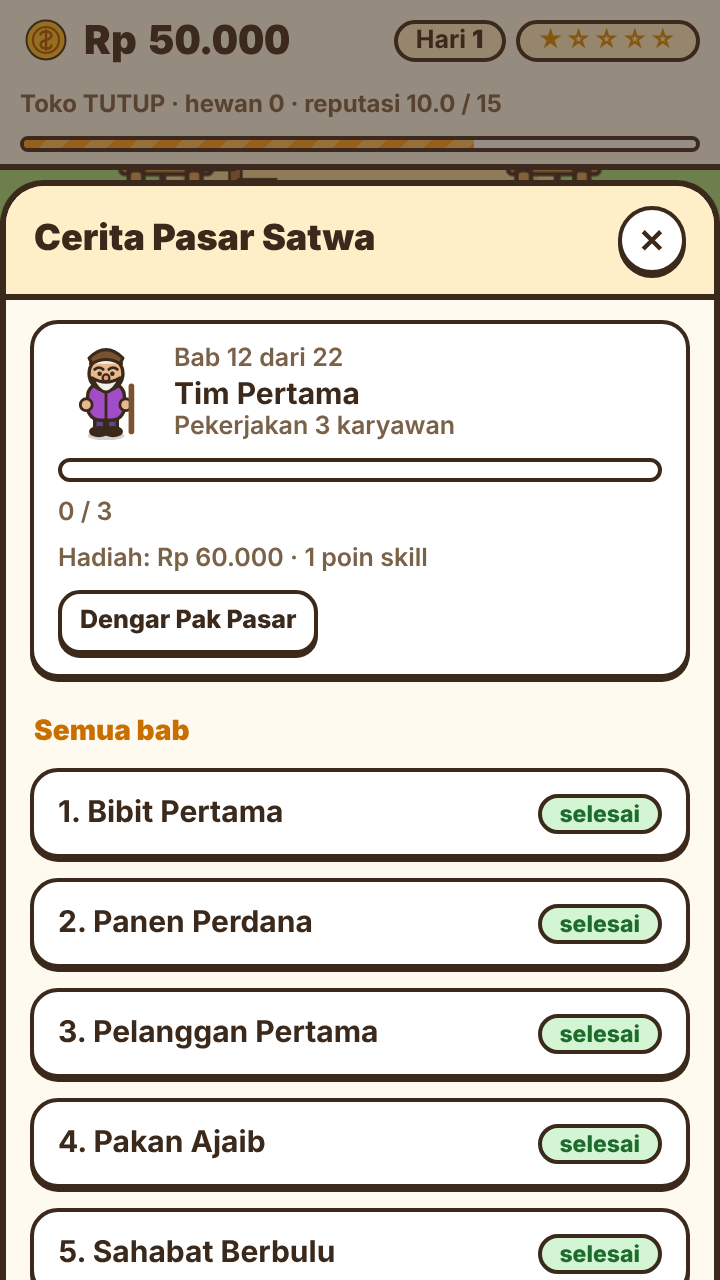
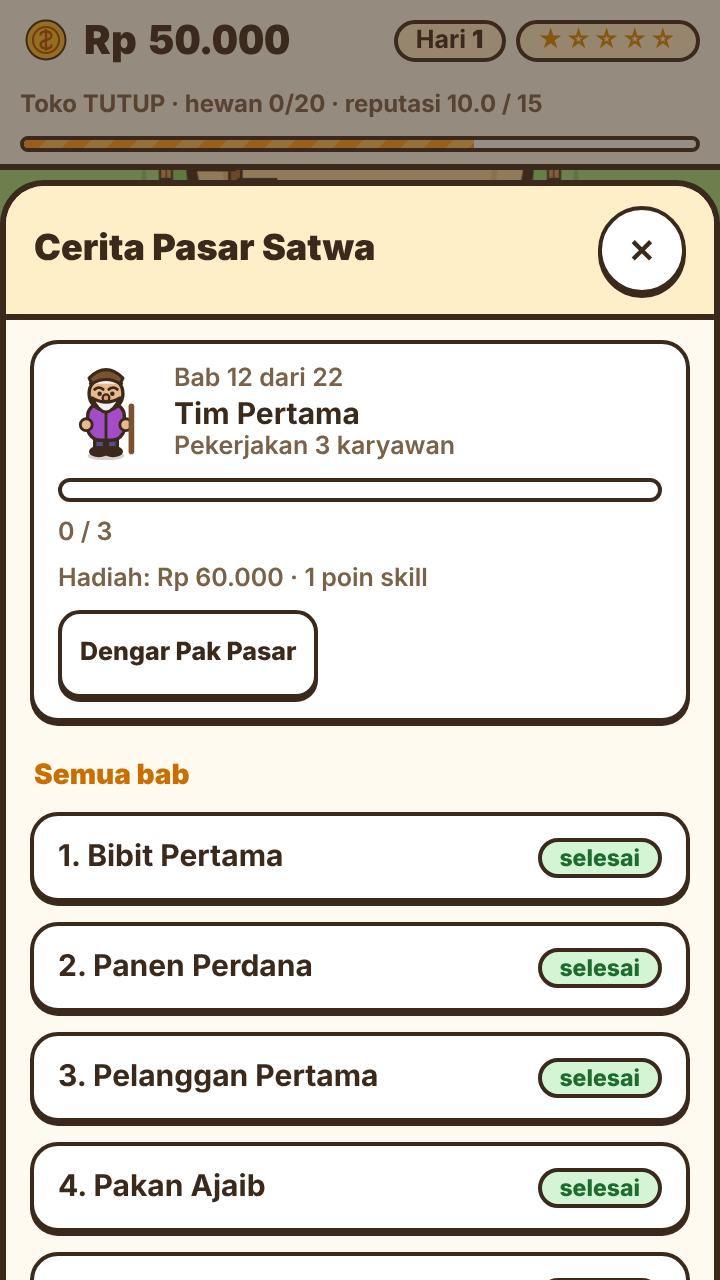
v12 Tahap 3: tes acak jangka panjang, screenshot, dokumen Play Store
Claude-Session: https://claude.ai/code/session_01FiZz84nyAqBw2wqeWTNfg3

diff --git a/tests/fuzz.test.js b/tests/fuzz.test.js
@@ -1,0 +1,53 @@
+import { describe, it, expect } from 'vitest';
+import { GameEngine, newState } from '../src/core/engine.js';
+import { auditLedger, credit } from '../src/core/ledger.js';
+import { validateState } from '../src/core/save.js';
+import { mulberry32 } from '../src/core/rng.js';
+import { makeClock, farmRound } from './farmbot.js';
+import { CITIES, DESTS, PUPS } from '../src/core/world2.js';
+import { STAFF } from '../src/core/catalog.js';
+
+const T = (fn) => { try { return fn(); } catch { return null; } };
+const hasNaN = (o) => JSON.stringify(o, (k, v) => (typeof v === 'number' && !Number.isFinite(v) ? '__NaN__' : v)).includes('__NaN__');
+
+describe('fuzz: permainan acak jangka panjang', () => {
+  for (const seed of [11, 22, 33]) {
+    it(`seed ${seed}: 150 hari aksi acak, data tetap valid`, () => {
+      const e = new GameEngine(newState(seed));
+      const clock = makeClock(e);
+      const rng = mulberry32(seed * 7);
+      credit(e.state.ledger, 1, 'reward', 200_000, 'modal tes');
+      const seen = { exp: 0, runs: 0, cities: 1, skills: 0 };
+      const pick = (a) => a[Math.floor(rng() * a.length)];
+      for (let d = 0; d < 150; d++) {
+        farmRound(e, clock);
+        const s = e.state;
+        if (d % 15 === 5) { s.stars = Math.max(s.stars, Math.min(5, 1 + Math.floor(d / 15))); credit(s.ledger, s.day, 'reward', 1_500_000, 'dana tes'); }
+        if (rng() < 0.3) T(() => e.expandShop());
+        if (rng() < 0.2) T(() => e.buyUpgrade(pick(['rak', 'dekorasi', 'renovasi'])));
+        s.bonusPoints = (s.bonusPoints || 0) + 1; if (rng() < 0.5) T(() => e.learnSkill(pick(['tim', 'promosi', 'gudang', 'tawar', 'tim_besar', 'toko_ramai'])));
+        if (rng() < 0.2) T(() => e.addAttr(pick(['dagang', 'karisma', 'tangkas', 'hoki'])));
+        if (rng() < 0.3) { const st = pick(STAFF); s.crew.licenses[st.id] = true; s.skills.tim = Math.max(s.skills.tim || 0, 3); T(() => e.hire(st.id)); }
+        if (rng() < 0.2) T(() => e.buyCity(pick(CITIES).id));
+        if (rng() < 0.3) T(() => e.travelTo(pick(CITIES).id));
+        if (rng() < 0.4 && s.crew.hired.length) T(() => e.sendExpedition(pick(s.crew.hired).uid, pick(DESTS).id, 1 + Math.floor(rng() * 3)));
+        if (rng() < 0.05) T(() => e.fire(pick(s.crew.hired)?.uid));
+        if (rng() < 0.1) T(() => e.setSellMode(pick(['common', 'uncommon', 'rare']), pick(['normal', 'obral', 'pengepul', 'tahan'])));
+        if (rng() < 0.1) T(() => e.buyPup(pick(PUPS).id));
+        if (s.stars >= 3 && rng() < 0.03) T(() => e.prestigeNow());
+        credit(e.state.ledger, e.state.day, 'reward', 20_000, 'subsidi tes');
+        e.startDay();
+        e.endDay();
+        const st = e.state;
+        expect(validateState(st), `hari ${st.day}`).toEqual([]);
+        expect(auditLedger(st.ledger)).toEqual([]);
+        expect(hasNaN(st)).toBe(false);
+        expect(st.farm.animals.length).toBeLessThanOrEqual(e.animalCap() + 0);
+        seen.exp = Math.max(seen.exp, st.exped.done); seen.runs = st.prestige.runs; seen.cities = Math.max(seen.cities, Object.keys(st.cities.owned).length); seen.skills = Math.max(seen.skills, Object.keys(st.skills).length);
+      }
+      expect(seen.cities).toBeGreaterThan(1);
+      expect(seen.exp).toBeGreaterThan(0);
+      console.log('cakupan', seed, JSON.stringify(seen), 'hari', e.state.day);
+    });
+  }
+});

diff --git a/docs/PLAY_STORE.md b/docs/PLAY_STORE.md
@@ -7,7 +7,7 @@
 
 ## Langkah
 1. Pastikan situs live dapat dibuka TANPA login. Matikan Vercel Authentication di Project Settings (Deployment Protection), kalau tidak PWABuilder dan Play tidak bisa membaca manifest.
-2. Buka pwabuilder.com, masukkan URL situs, lalu "Package for stores" > Android. Isi package id (mis. `app.pasarsatwa`), nama "Pasar Satwa", versi 1.
+2. Buka pwabuilder.com, masukkan URL situs: `https://pasar-satwa.vercel.app` (sudah terpasang di project Vercel `pasar-satwa`), lalu "Package for stores" > Android. Isi package id (mis. `app.pasarsatwa`), nama "Pasar Satwa", versi 1.
 3. Simpan keystore yang dibuat PWABuilder (jangan sampai hilang) dan catat SHA-256 fingerprint-nya.
 4. Letakkan `assetlinks.json` hasil PWABuilder di `public/.well-known/assetlinks.json`, deploy ulang, supaya bilah alamat Chrome hilang (full screen).
 5. Play Console: buat aplikasi, unggah `.aab`, isi listing (deskripsi, ikon 512, feature graphic 1024x500, screenshot dari `public/screenshots`), kebijakan privasi, kuesioner rating konten, Data safety (tidak ada data dikumpulkan), target audiens.

diff --git a/README.md b/README.md
@@ -42,3 +42,4 @@ npm run build    # build produksi (dist/)
 
 - v12 Tahap 1: gudang hewan naik bertahap (+40 level toko, +30 Rak, +10 perk Gudang Rapi, maks 440), tombol Back Android, simpan otomatis saat app ditutup, dialog konfirmasi dalam game, tombol 44px, stepper −/+, tutorial baru.
 - v12 Tahap 2: menu Dunia — cabang kota (Bandung, Surabaya, Bali, Jakarta; dimainkan manual, selera dan sewa berbeda), ekspedisi karyawan 1–3 hari, prestise/musim baru dengan Poin Legenda dan 5 bonus permanen. Save versi 12.
+- v12 Tahap 3: tes acak 150 hari x 3 seed (aksi acak termasuk kota, ekspedisi, prestise), screenshot Play Store diperbarui, URL pasar-satwa.vercel.app.
